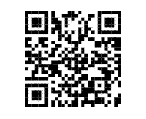
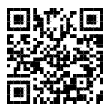
added screenshots, gif

diff --git a/src/Components/MovieCard.js b/src/Components/MovieCard.js
@@ -13,6 +13,7 @@ import {
   Left,
   Right,
 } from "native-base";
+import { Ionicons } from "@expo/vector-icons";
 
 /**
  * Card Component to Display Movie Details
@@ -92,7 +93,7 @@ const MovieCard = ({ title, image_uri, date, overview, votes, language }) => {
             <Left>
               {/* Number of Votes */}
               <Button transparent>
-                <Icon style={styles.icon} name="star" />
+                <Ionicons style={styles.icon} size={15} name="heart" />
                 <Text style={{ color: grey }}>{votes} Votes</Text>
               </Button>
             </Left>
@@ -100,7 +101,7 @@ const MovieCard = ({ title, image_uri, date, overview, votes, language }) => {
             <Right>
               {/* Movie Original Language */}
               <Button transparent>
-                <Icon style={styles.icon} name="language" />
+                <Ionicons style={styles.icon} size={15} name="language" />
                 <Text style={{ color: grey }}>{language}</Text>
               </Button>
             </Right>

diff --git a/src/Screens/Home.js b/src/Screens/Home.js
@@ -66,7 +66,9 @@ export default function Home() {
           // Movies URL
           `http://api.themoviedb.org/3/discover/movie?api_key=28ae3e833077363150b565b2ab3160a7&page=${1}`,
           {}
-        );
+        ).catch((e) => {
+          console.log(e);
+        });
 
         const json = await response.json();
         return json;

diff --git a/README.md b/README.md
@@ -2,7 +2,9 @@
 
 A cross-platform mobile app build using React-Native (Expo) that displays a list of movies fetched through [TheMovieDB]('https://developers.themoviedb.org/') API
 
-## Features
+<img src="https://firebasestorage.googleapis.com/v0/b/myfirstproject-5a8f5.appspot.com/o/gif.gif?alt=media&token=b4722083-aac8-4e1f-9e02-5f35eea5437c" style="width:200px;margin-left:25%;" />
+
+# Features
 
 - Infinite List of Movies
 - List is Lazy-Loaded
@@ -11,7 +13,7 @@ A cross-platform mobile app build using React-Native (Expo) that displays a list
 - Release Date
 - Number of Stars
 
-## Project Directory
+# Project Directory
 
     .
     ├── assets                    # Static Assets
@@ -23,7 +25,22 @@ A cross-platform mobile app build using React-Native (Expo) that displays a list
     ├── App.js                    # Starting point of the app
     └── README.md                 # Comprehensive desicription
 
-## Setup instructions
+# Preview App
+
+To preview the app there are 3 options: local build (_See Setup Instructions_), [Snack](https://snack.expo.io/@shehabtarek1/55ba44) (_Recommended_), run my build on Expo
+
+_Snack_:
+
+1. Open this link from a browser: https://snack.expo.io/@shehabtarek1/55ba44
+2. Choose a Android/IOS tab to preview the app on a simulator
+
+_My built version_ (Android only):
+
+Scan the following QR code:
+
+![QR Code](https://firebasestorage.googleapis.com/v0/b/myfirstproject-5a8f5.appspot.com/o/QR.png?alt=media&token=0e8b498f-c467-407f-bc7a-c58cc18ef4d7)
+
+# Setup instructions
 
 ### 1. Install dependencies
 
@@ -39,7 +56,7 @@ npm install
 
 ### 2. Run App
 
-_Locally_:
+To preview the app there are 3 options: local build, [Snack](https://snack.expo.io/@shehabtarek1/55ba44) (\_\_), run my build on Expo
 
 1. Dowload Expo app on device:
    [Google Play]('https://play.google.com/store/apps/details?id=host.exp.exponent&hl=en&gl=US'), [Apple Store]('https://apps.apple.com/us/app/expo-go/id982107779')
@@ -53,12 +70,6 @@ expo start
 
 3. Scan QR code from the device camera
 
-_My built version_ (Android only):
-
-Scan the following QR code:
-
-![QR Code](https://raw.githubusercontent.com/shehabeldeenibrahim/MoviesApp/master/QR.png?token=AOLURWLMC24E2NKJSE6OHSDAVXDRW)
-
 # Requirements
 
 - [Expo]('https://expo.io/')
@@ -67,6 +78,14 @@ Scan the following QR code:
 
 # Screenshots
 
-## Android
-
-<img src="https://raw.githubusercontent.com/shehabeldeenibrahim/MoviesApp/master/AndroidSS.jpeg?token=AOLURWIGWDNLVQTP4BHFZVTAVXDGK" alt="drawing" style="width:200px;"/>
+<div class="row">
+    <div style="float: left; width: 50%; border-bottom-width: 0;">
+        <h1 style="border-bottom-width: 0;">Android</h1> 
+        <img src="https://firebasestorage.googleapis.com/v0/b/myfirstproject-5a8f5.appspot.com/o/AndroidSS.jpeg?alt=media&token=c37a2ef4-110c-47e6-8c53-1a56cbd6722a"  style="width:200px;"/>
+    </div>
+    </div>
+    <div style="float: left; width: 50%;">
+        <h1 style="border-bottom-width: 0;">Apple</h1> 
+        <img src="https://firebasestorage.googleapis.com/v0/b/myfirstproject-5a8f5.appspot.com/o/AppleSS.png?alt=media&token=32238bf6-55da-4055-b4e7-0f76e956d7e8" style="width:200px;"/>
+    </div>
+</div>
